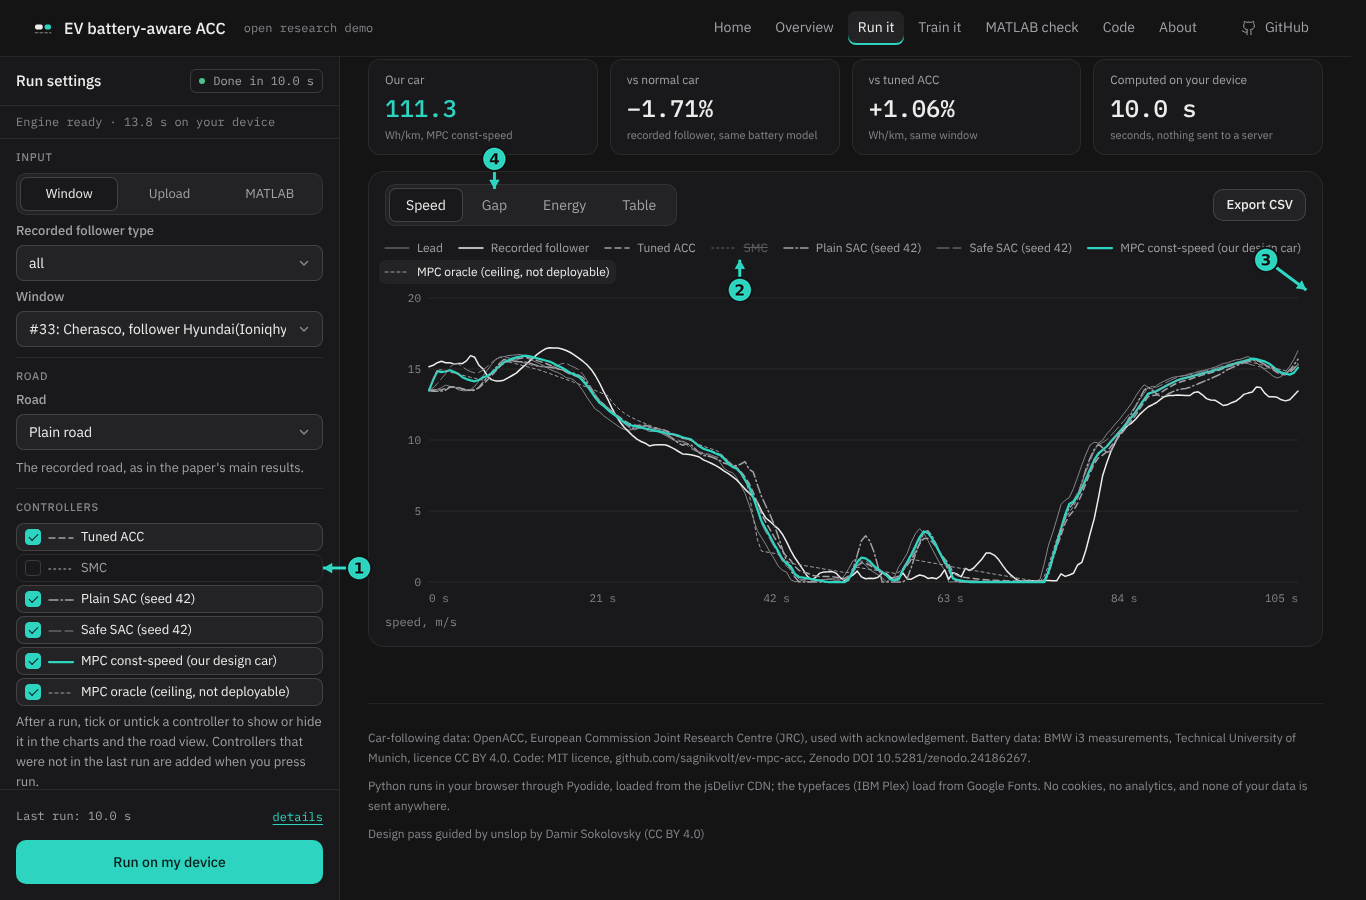
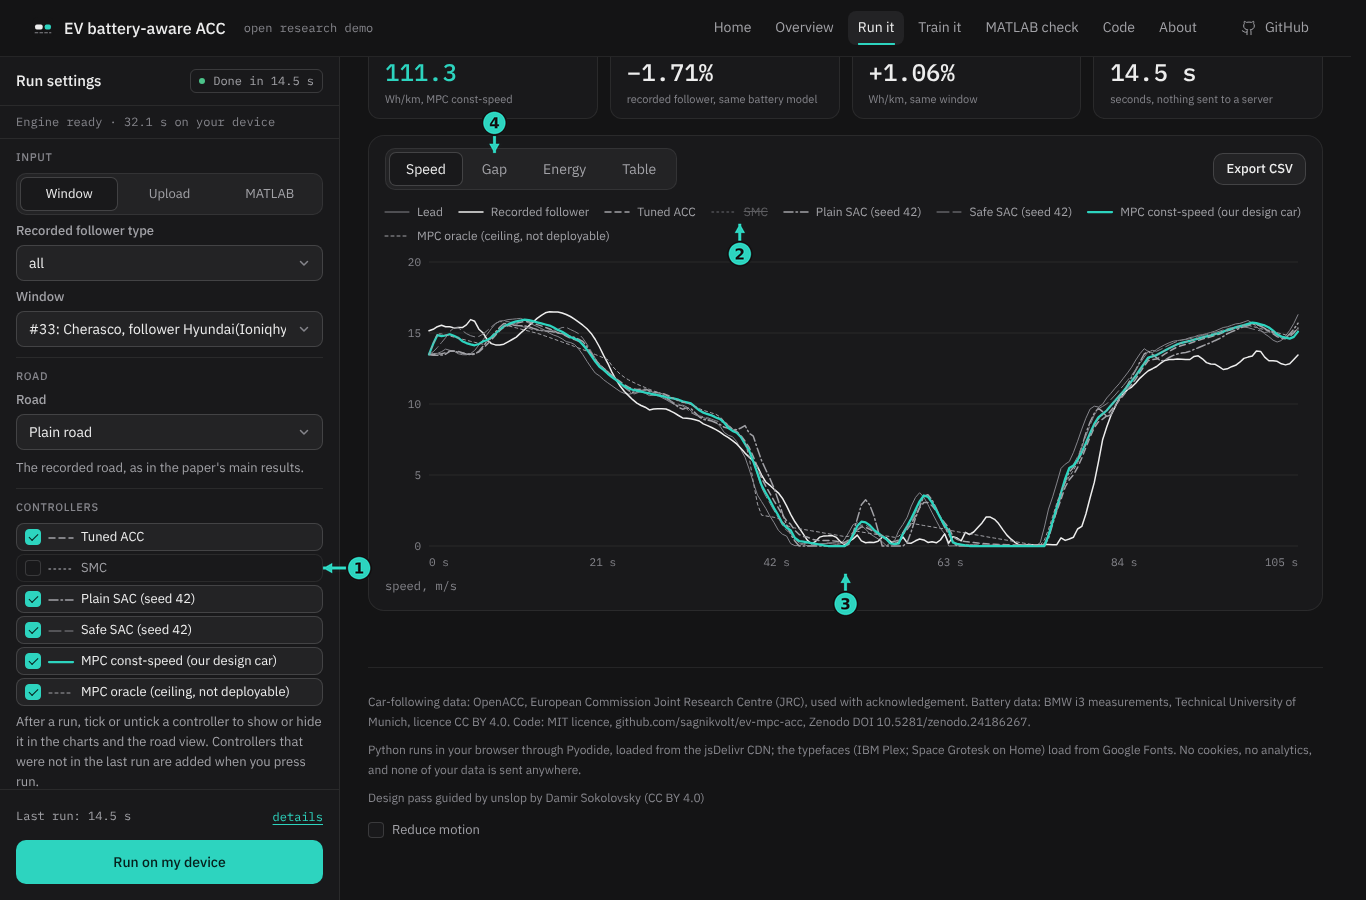
Hotfix: chapter named in a link shows at once (no fade); how-to marker 3 points at the chart instead of empty space; how-to screenshots retaken (motion.js?v=20261115r2)
Claude-Session: https://claude.ai/code/session_01TpFRrNyxWTtr25N1JZfZSR

diff --git a/motion.js b/motion.js
@@ -57,7 +57,7 @@
 
  /* blur text on the Home headline */
  function blur() {
-  var h = PAGE === 'replay' && $('#h1'); if (!h || h._bt) return; h._bt = 1; var parts = h.textContent.split(/(\s+)/), i = 0; h.textContent = '';
+  var h = PAGE === 'home' && $('#h1'); if (!h || h._bt) return; h._bt = 1; var parts = h.textContent.split(/(\s+)/), i = 0; h.textContent = '';
   parts.forEach(function (w) { if (!w) return; if (/^\s+$/.test(w)) { h.appendChild(D.createTextNode(w)); return; } var s = D.createElement('span'); s.className = 'mo-bt'; s.style.setProperty('--i', i++); s.textContent = w; h.appendChild(s); });
  }
 
@@ -81,10 +81,11 @@
     setTimeout(function () { e.classList.remove('mo-t'); e.style.transitionDelay = ''; }, 900);
    });
   }, { threshold: [0, .01, .02, .03, .05, .08, .1, .12, .15] });
+  var hid = (location.hash || '').slice(1); list = list.filter(function (e) { return !hid || (e.id !== hid && !e.contains(document.getElementById(hid))); });   // the section a link points at is shown at once
   list.forEach(function (e) { e.classList.add('mo-pre'); io.observe(e); });
   // safety net: anything still hidden that is on screen when scrolling stops (tall cards, jumps, smooth scroll) is shown at once
   var sw = function () { $$('.mo-pre').forEach(function (e) { var r = e.getBoundingClientRect(); if (r.top < innerHeight - 40 && r.bottom > 40) { io.unobserve(e); e.classList.remove('mo-pre'); } }); }, st = 0;
-  addEventListener('scroll', function () { clearTimeout(st); st = setTimeout(sw, 180); }, { passive: true }); addEventListener('hashchange', function () { setTimeout(sw, 700); }); setTimeout(sw, 1500);
+  addEventListener('scroll', function () { clearTimeout(st); st = setTimeout(sw, 180); }, { passive: true }); addEventListener('hashchange', function () { setTimeout(sw, 700); }); setTimeout(sw, 1500); addEventListener('load', function () { requestAnimationFrame(sw); });
   var ch = $$('.ov-chart').filter(function (e) { return e.getBoundingClientRect().top > vh * .85; });
   var io2 = new IntersectionObserver(function (es) { es.forEach(function (x) { if (x.isIntersecting && (x.intersectionRatio >= .15 || x.intersectionRect.height >= 120)) { io2.unobserve(x.target); drawIn(x.target); } }); }, { threshold: [0, .01, .02, .03, .05, .08, .1, .12, .15] });
   ch.forEach(function (e) { e.classList.add('dr-pre'); io2.observe(e); });
@@ -105,7 +106,7 @@
 
  /* dot grid behind the Home glass panels: dots near the cursor brighten (30 fps cap, paused when hidden/off-screen) */
  function dots() {
-  var b = PAGE === 'replay' && $('.hero-band'); if (!b || $('.hero-dots') || RM()) return; var c = D.createElement('canvas'), bg = $('.hero-bg', b); c.className = 'hero-dots'; c.setAttribute('aria-hidden', 'true'); if (bg) bg.after(c); else b.prepend(c);
+  var b = PAGE === 'home' && $('.hero-band'); if (!b || $('.hero-dots') || RM()) return; var c = D.createElement('canvas'), bg = $('.hero-bg', b); c.className = 'hero-dots'; c.setAttribute('aria-hidden', 'true'); if (bg) bg.after(c); else b.prepend(c);
   var x = c.getContext('2d'), w = 0, h = 0, mx = -999, my = -999, s = 0, tgt = 0, vis = true, last = 0, run = 0, S = 24, R = 150;
   function size() { var r = b.getBoundingClientRect(), d = Math.min(2, devicePixelRatio || 1); w = r.width; h = r.height; c.width = Math.round(w * d); c.height = Math.round(h * d); x.setTransform(d, 0, 0, d, 0, 0); draw(); }
   function draw() {

diff --git a/matlab/index.html b/matlab/index.html
@@ -25,5 +25,5 @@
 <dialog id="lb" class="lb" aria-label="Enlarged screenshot"><form method="dialog" class="lb-bar"><span class="lb-n meta" id="lb-n"></span><button type="button" class="alt sm" id="lb-prev" aria-label="Previous image">Previous</button><button type="button" class="alt sm" id="lb-next" aria-label="Next image">Next</button><button class="alt sm" id="lb-x" value="close">Close</button></form><img id="lb-img" alt=""><p class="lb-cap" id="lb-cap"></p></dialog>
 <script src="/common.js?v=20261115r"></script>
 <script src="/overview.js?v=20261115r"></script>
-<script src="/motion.js?v=20261115r1" defer></script>
+<script src="/motion.js?v=20261115r2" defer></script>
 </body></html>

diff --git a/train/index.html b/train/index.html
@@ -70,5 +70,5 @@
 <dialog id="lb" class="lb" aria-label="Enlarged screenshot"><form method="dialog" class="lb-bar"><span class="lb-n meta" id="lb-n"></span><button type="button" class="alt sm" id="lb-prev" aria-label="Previous image">Previous</button><button type="button" class="alt sm" id="lb-next" aria-label="Next image">Next</button><button class="alt sm" id="lb-x" value="close">Close</button></form><img id="lb-img" alt=""><p class="lb-cap" id="lb-cap"></p></dialog>
 <script src="/common.js?v=20261115r"></script>
 <script src="/train.js?v=20261115r"></script>
-<script src="/motion.js?v=20261115r1" defer></script>
+<script src="/motion.js?v=20261115r2" defer></script>
 </body></html>

diff --git a/replay/index.html b/replay/index.html
@@ -47,5 +47,5 @@
 <script src="/road.js?v=20261115r"></script>
 <script src="/common.js?v=20261115r"></script>
 <script type="module" src="/hero3d.js?v=20261115r"></script>
-<script src="/motion.js?v=20261115r1" defer></script>
+<script src="/motion.js?v=20261115r2" defer></script>
 </body></html>

diff --git a/overview/index.html b/overview/index.html
@@ -26,5 +26,5 @@
 <script src="/viz.js?v=20261115r"></script>
 <script src="/common.js?v=20261115r"></script>
 <script src="/overview.js?v=20261115r"></script>
-<script src="/motion.js?v=20261115r1" defer></script>
+<script src="/motion.js?v=20261115r2" defer></script>
 </body></html>

diff --git a/run/index.html b/run/index.html
@@ -96,5 +96,5 @@
 <script src="/road.js?v=20261115r"></script>
 <script src="/common.js?v=20261115r"></script>
 <script src="/run.js?v=20261115r"></script>
-<script src="/motion.js?v=20261115r1" defer></script>
+<script src="/motion.js?v=20261115r2" defer></script>
 </body></html>

diff --git a/inside/index.html b/inside/index.html
@@ -52,5 +52,5 @@
 
 <script src="/common.js?v=20261115r"></script>
 <script src="/inside_scene.js?v=20261115r"></script>
-<script src="/motion.js?v=20261115r1" defer></script>
+<script src="/motion.js?v=20261115r2" defer></script>
 </body></html>

diff --git a/index.html b/index.html
@@ -56,5 +56,5 @@
 
 <script src="/common.js?v=20261115r"></script>
 <script src="/home_scene.js?v=20261115r"></script>
-<script src="/motion.js?v=20261115r1" defer></script>
+<script src="/motion.js?v=20261115r2" defer></script>
 </body></html>

diff --git a/code/index.html b/code/index.html
@@ -26,5 +26,5 @@
 
 <script src="/common.js?v=20261115r"></script>
 <script src="/code.js?v=20261115r"></script>
-<script src="/motion.js?v=20261115r1" defer></script>
+<script src="/motion.js?v=20261115r2" defer></script>
 </body></html>

diff --git a/about/index.html b/about/index.html
@@ -52,5 +52,5 @@
 
 
 <script src="/common.js?v=20261115r"></script>
-<script src="/motion.js?v=20261115r1" defer></script>
+<script src="/motion.js?v=20261115r2" defer></script>
 </body></html>

diff --git a/results/index.html b/results/index.html
@@ -26,5 +26,5 @@
 
 
 <script src="/viz.js?v=20261115r"></script>
-<script src="/motion.js?v=20261115r1" defer></script>
+<script src="/motion.js?v=20261115r2" defer></script>
 </body></html>
